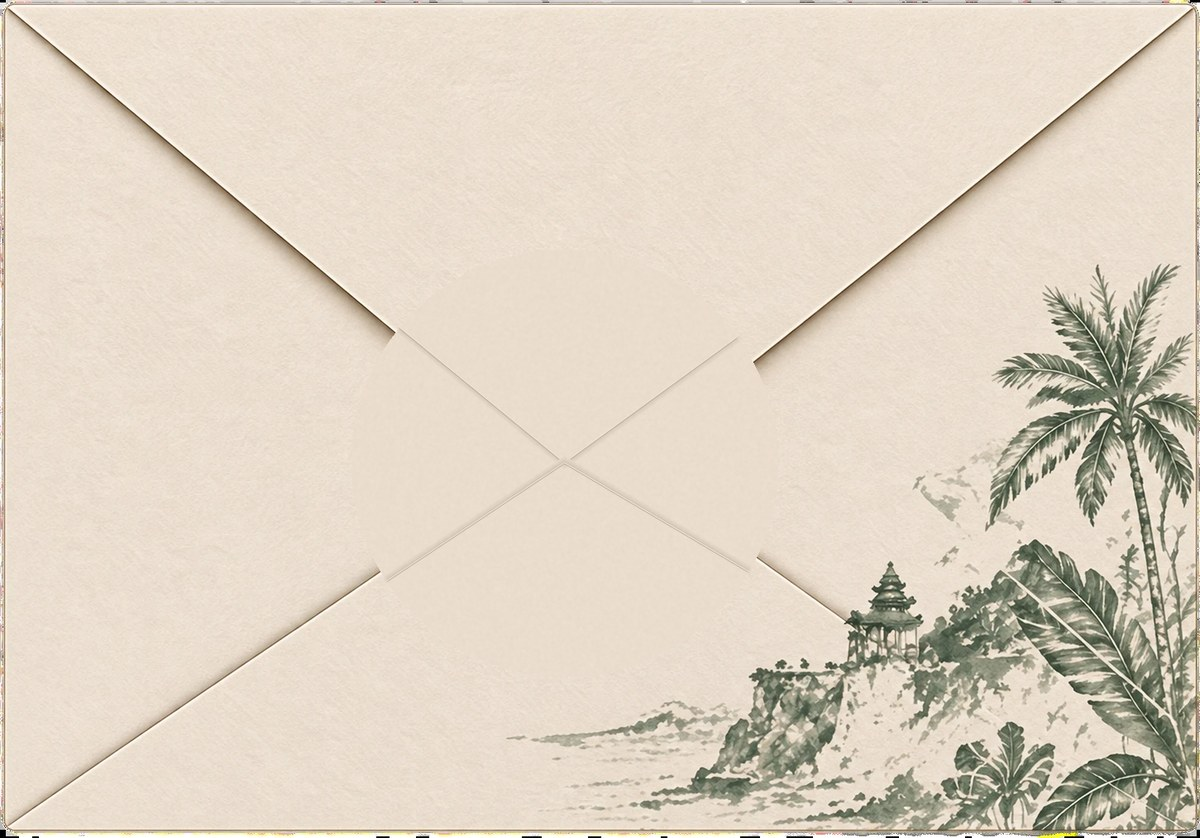
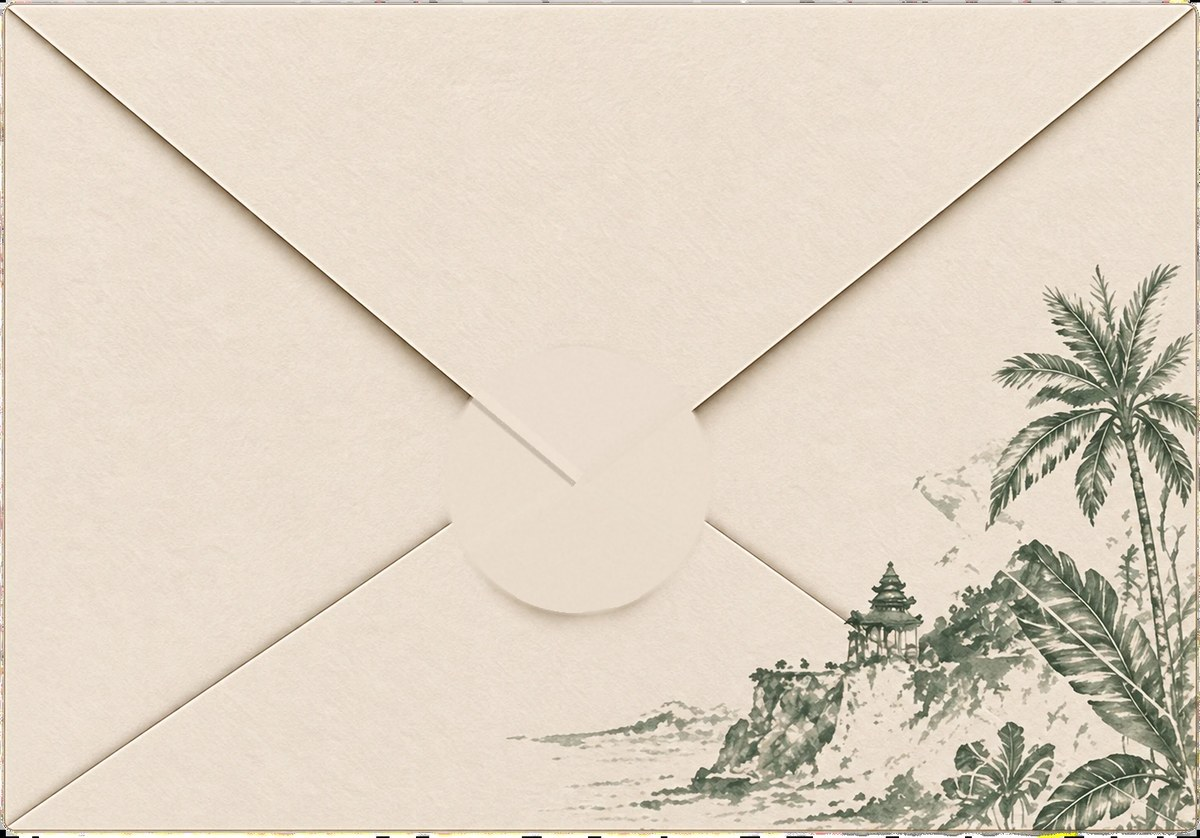
Envelope: the artwork as sent, seal lifted cleanly, paper beneath rebuilt sector by sector
Claude-Session: https://claude.ai/code/session_01GqK2ENqeRUwQmtgcSZFd9X

diff --git a/index.html b/index.html
@@ -203,7 +203,7 @@ button,input,select,textarea{font:inherit;color:inherit}
 .env{width:var(--ew);height:var(--eh);margin-left:calc(var(--ew) / -2);margin-top:calc(var(--eh) / -2)}
 .env-back{z-index:2;background:#E3DBC9;border-radius:6px}
 .env-pocket{z-index:5;border-radius:6px;overflow:hidden;background:url("assets/envelope.jpg") center/100% 100% no-repeat;
-  clip-path:polygon(0 0,47.0% 55.2%,100% 0,100% 100%,0 100%);-webkit-clip-path:polygon(0 0,47.0% 55.2%,100% 0,100% 100%,0 100%)}
+  clip-path:polygon(0 0,48.1% 57.2%,100% 0,100% 100%,0 100%);-webkit-clip-path:polygon(0 0,48.1% 57.2%,100% 0,100% 100%,0 100%)}
 .env-pocket .addr{
   position:absolute;left:8%;right:44%;bottom:7%;text-align:center;
   font-family:var(--script);font-size:clamp(19px,5.2vw,26px);color:#6B6558;
@@ -215,11 +215,11 @@ button,input,select,textarea{font:inherit;color:inherit}
 }
 .env-flap .flap-face{
   position:absolute;inset:0;background:url("assets/envelope.jpg") center/100% 100% no-repeat;
-  clip-path:polygon(0 0,100% 0,47.0% 55.2%);
-  -webkit-clip-path:polygon(0 0,100% 0,47.0% 55.2%);
+  clip-path:polygon(0 0,100% 0,48.1% 57.2%);
+  -webkit-clip-path:polygon(0 0,100% 0,48.1% 57.2%);
 }
 .seal{
-  position:absolute;left:47.0%;top:55.2%;width:118px;height:118px;margin:-59px 0 0 -59px;
+  position:absolute;left:48.1%;top:57.2%;width:calc(var(--ew) * 0.226);height:calc(var(--ew) * 0.226);margin:calc(var(--ew) * -0.1131) 0 0 calc(var(--ew) * -0.1131);
   will-change:transform;
 }
 .seal-art{position:absolute;inset:0;background:url("assets/seal.png") center/100% 100% no-repeat;filter:drop-shadow(0 3px 3px rgba(60,40,5,.35))}
